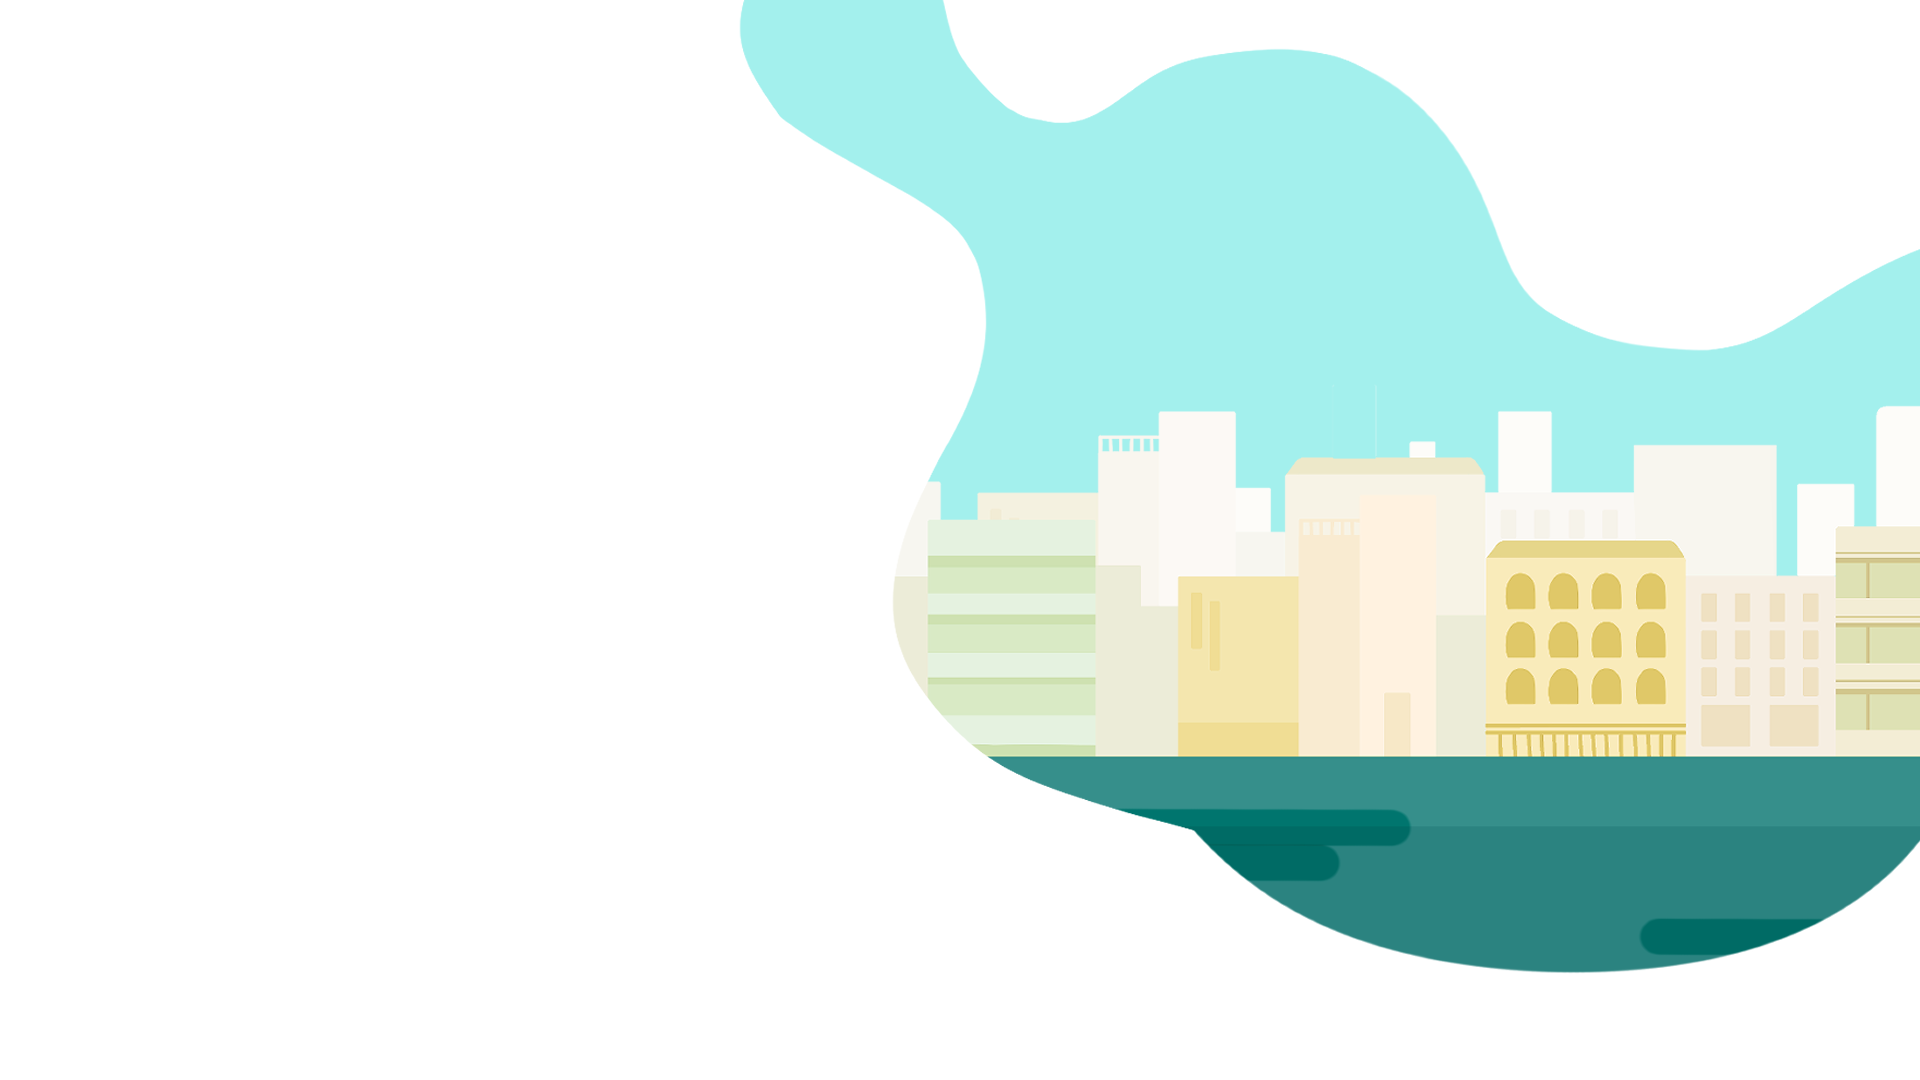
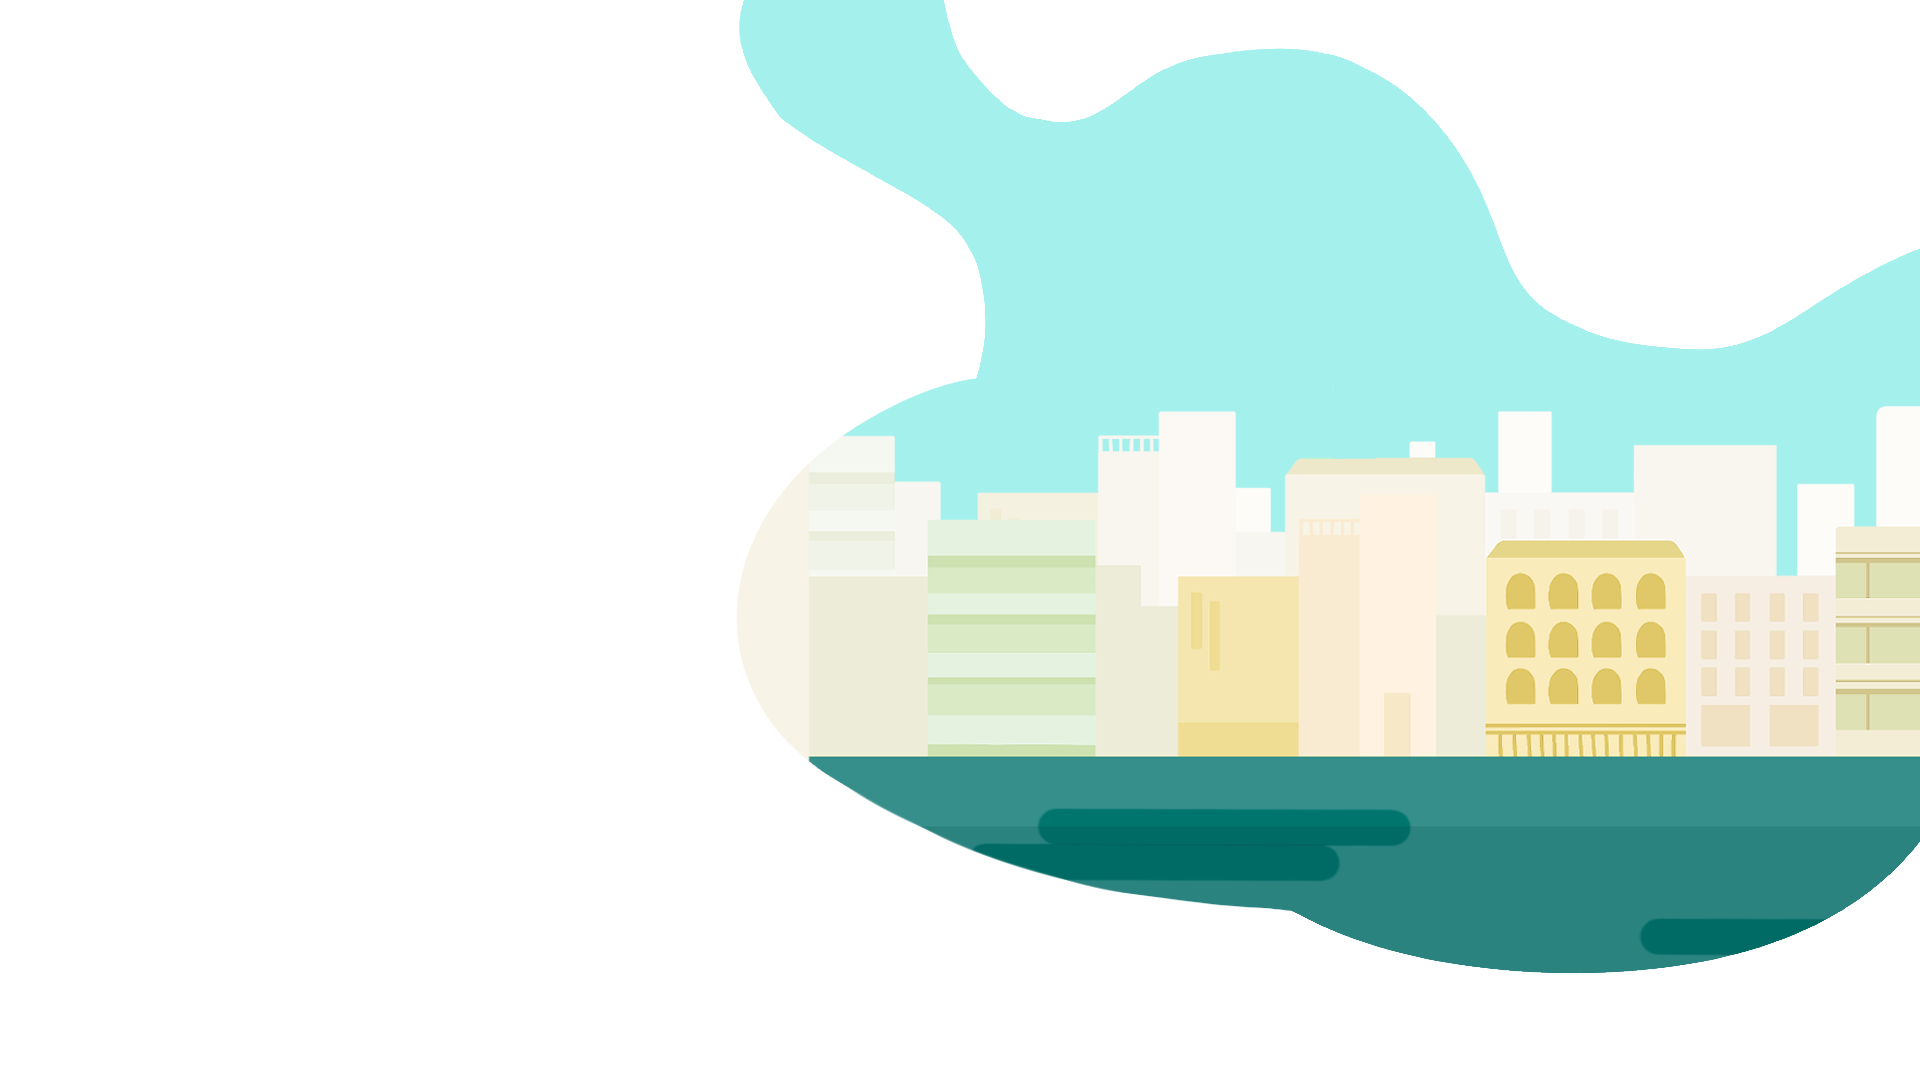
new

Changed region(s): [[0.375, 0.3361, 0.6875, 0.8556]]

diff --git a/index.html b/index.html
@@ -3,8 +3,11 @@
 <head>
     <meta charset="UTF-8">
     <title>따고 - 맞춤교육으로 정확하게 운전면허 따기!</title>
+    <link rel="shortcut icon" href="./img/favicon.ico">
+    <link rel="icon" href="./img/favicon.ico">
     <link type="text/css" rel="stylesheet" href="./css/reset.css" />
     <link type="text/css" rel="stylesheet" href="./css/style.css" />
+    <script src="https://cdnjs.cloudflare.com/ajax/libs/gsap/2.1.3/TweenMax.min.js"></script>
     <script src="./js/libs/jquery/jquery-3.4.1.min.js" type="text/javascript"></script>
 </head>
 <body class="no-drag">
@@ -23,6 +26,7 @@
 
 
     <div class="home">
+            <img src="./img/bg7.png" id="bg7"/>
             <img src="./img/bg1.png" id="bg1"/>
             <div class="parallax">
             <img src="./img/bg2.png" id="bg2"/>
@@ -33,15 +37,13 @@
             </div>
 
             <div id="app_p">낙후된 운전면허학원 시스템 개선 앱 서비스</div>
-            <div id="home_title"><img src="./img/big_logo.jpg" />
-            </div>
-            <div id="home_p">맞춤교육으로 정확하게<br /> 운전면허 따기!</div>
+            <div id="home_p">맞춤교육으로<br /><span>정확하게</span><br /> 운전면허 따기!</div>
 
         <div id="pl">
             <a href="#">기획서 다운로드</a>
         </div>
         <div id="pr">
-            <a href="https://cloud.protopie.io/p/8cc470c365" target="_blank">프로토타입</a>
+            <a href="https://cloud.protopie.io/p/8cc470c365" target="_blank">프로토타이핑</a>
         </div>
     </div>
     <!--<div class="home_illust_item home_illust_primary">
@@ -56,7 +58,7 @@
         <div id="pr_back">Background
             <p>기존 운전면허학원은 체계적이지 않고 구시대적인 시스템, 강사의 문제와 부담스러운 가격 등의 문제점을 가지고 있습니다. 이러한<br />문제점은 높은 초보운전자 사고율로 직결됩니다. 그리하여 낙후된 운전 면허학원 시스템을 개선하고, 수험생 맞춤관리를 도와주는<br />'따고' 앱 서비스를 기획했습니다.</p>
         </div>
-        <iframe id="video" width="1920" height="1080" src="https://www.youtube.com/embed/9HQpskBWx4w" frameborder="0" allow="accelerometer; autoplay; encrypted-media; gyroscope; picture-in-picture" allowfullscreen></iframe>
+        <iframe id="video" width="1920" height="1080" src="https://www.youtube.com/embed/DP1p69YDkso" frameborder="0" allow="accelerometer; autoplay; encrypted-media; gyroscope; picture-in-picture" allowfullscreen></iframe>
 
         <div class="problem">
             <div class="problem_inner"></div>
@@ -90,6 +92,9 @@
 
         <div class="strategy2">
             <div class="strategy_inner2"></div>
+            <img src="./img/str1.png" />
+            <img src="./img/str2.png" />
+            <img src="./img/str3.png" />
         </div>
 
         <div class="strategy3">
@@ -176,10 +181,10 @@
             <div id="carouselExampleControls" class="carousel slide" data-ride="carousel">
             <div class="carousel-inner" role="listbox">
                 <div class="carousel-item active">
-                    <img class="d-block img-fluid" src="./img/bsi1.png" alt="First slide">
+                    <img class="d-block img-fluid" src="./img/bsi1.gif" alt="First slide">
                 </div>
                     <div class="carousel-item">
-                        <img class="d-block img-fluid" src="./img/bsi2.png" alt="Second slide">
+                        <img class="d-block img-fluid" src="./img/bsi2.gif" alt="Second slide">
                     </div>
                     <a class="carousel-control-prev" href="#carouselExampleControls" role="button" data-slide="prev">
                     <span class="carousel-control-prev-icon" aria-hidden="true"><img src="./img/left.png" /></span>
@@ -258,7 +263,7 @@
             <a href="https://www.youtube.com/watch?v=4pP8cOqqEQw&feature=youtu.be" target="_blank">프로토타입 영상</a>
         </div>
         <div id="mock_pr">
-            <a href="https://cloud.protopie.io/p/8cc470c365" target="_blank">프로토타입</a>
+            <a href="https://cloud.protopie.io/p/8cc470c365" target="_blank">프로토타이핑</a>
         </div>
         </div>
     </div>

diff --git a/css/style.css b/css/style.css
@@ -70,26 +70,24 @@
 }
 #app_p{
     position: absolute;
-    margin-top: 270px;
+    margin-top: 280px;
     width: 400px;
-    margin-left: 310px;
-    font-size: 18px;
-    font-family: 'Noto Sans KR', sans-serif;
-}
-#home_title{
-    position: relative;
-    margin-top: 300px;
-    margin-left: 300px;
-    font-size : 150px;
+    margin-left: 223px;
+    font-size: 20px;
     font-family: 'Noto Sans KR', sans-serif;
 }
 #home_p{
     position: absolute;
-    width: 100%;
-    font-size : 30px;
-    line-height: 160%;
-    margin-left: 300px;
+    width: 1000px;
+    font-size : 65px;
+    line-height: 135%;
+    margin-left: 220px;
+    margin-top: 325px;
+    font-weight: 400;
     font-family: 'Noto Sans KR', sans-serif;
+}
+#home_p span{
+    font-weight: 700;
 }
 #bg1, #bg2, #bg3, #bg4,#bg5,#bg6{
     position: absolute;
@@ -100,21 +98,22 @@
     width: 170px;
     line-height: 50px;
     text-align: center;
-    background-color: #02d1c9;
-    border-radius: 30px;
-    box-shadow:none;
-    margin-top: 120px;
-    margin-left: 300px;
+    margin-top: 620px;
+    margin-left: 215px;
     font-family: 'Noto Sans KR', sans-serif;
-    transition-duration: 0.3s;
+    z-index: 20;
 }
 #pl a{
     text-decoration: none;
-    color: #fff;
-}
-#pl:hover{
-    box-shadow: 2px 2px 15px #71f0eb;
+    color: #353535;
+    border: 1.5px solid #02d1c9;
+    border-radius: 15px;
+    padding: 15px 20px 15px 20px;
     transition-duration: 0.3s;
+}
+#pl a:hover{
+    color: #fff;
+    background-color:  #02d1c9;
 }
 #pr{
     position: absolute;
@@ -122,21 +121,28 @@
     width: 150px;
     line-height: 50px;
     text-align: center;
-    background-color: #02d1c9;
-    border-radius: 30px;
-    box-shadow:none;
-    margin-top: 120px;
-    margin-left: 500px;
+    margin-top: 620px;
+    margin-left: 395px;
     font-family: 'Noto Sans KR', sans-serif;
     transition-duration: 0.3s;
+    z-index: 20;
 }
 #pr a{
     text-decoration: none;
-    color: #fff;
-}
-#pr:hover{
-    box-shadow: 2px 2px 15px #71f0eb;
+    color: #353535;
+    border: 1.5px solid #02d1c9;
+    border-radius: 15px;
+    padding: 15px 25px 15px 25px;
     transition-duration: 0.3s;
+}
+#pr a:hover{
+    color: #fff;
+    background-color:  #02d1c9;
+}
+#bg7{
+    position: absolute;
+    margin-left: -30px;
+    z-index: 10;
 }
 .project{
     position: absolute;
@@ -287,13 +293,17 @@
     width: 1920px;
     height: 1080px;
     margin-left: -360px;
-    opacity: 0;
     background: no-repeat center center;
     background-size: cover;
     z-index: -10000;
 }
 .strategy2 .strategy_inner2 {
     background-image: url(../img/strategy2.png);
+}
+.strategy2 img{
+    margin-top: 300px;
+    margin-left: -200px;
+    opacity: 0;
 }
 .strategy3{
     margin-top: 350px;

diff --git a/js/script.js b/js/script.js
@@ -48,6 +48,11 @@ $(document).mousemove(function(e) {
 });
 // 마우스 패럴랙스
 
+// 일러스트
+TweenMax.to('#bg7', 2, {x: 30,repeat: -1,yoyo: true,ease: Sine.easeInOut,force3D: true});
+TweenMax.to('#bg7', 1.5, {y: -12,repeat: -1,yoyo: true,ease: Sine.easeInOut,force3D: true});
+// 일러스트
+
 // 자동 슬라이드
 timer();
 var current=16;
@@ -87,13 +92,13 @@ $(window).scroll( function(){
             $(this).animate({'opacity':'1','margin-top':'-110px'},1000);
         }  
     }); 
-    $('.strategy2 div').each( function(i){
+    $('.strategy2').each( function(i){
         bottom_of_element = $(this).offset().top + $(this).outerHeight();
         bottom_of_window = $(window).scrollTop() + $(window).height();
             
         if( bottom_of_window > bottom_of_element ){
-            $(this).animate({'opacity':'1','margin-top':'0px'},1000);
-        }  
+            $('.strategy2 img').animate({'opacity':'1','margin-left':'0px'},1300);
+        }
     }); 
     $('.fade1').each( function(i){
         bottom_of_element = $(this).offset().top + $(this).outerHeight();
@@ -194,3 +199,6 @@ $img4.on('mouseover', function(e){
 // 마우스 이벤트
 
 });
+
+
+
